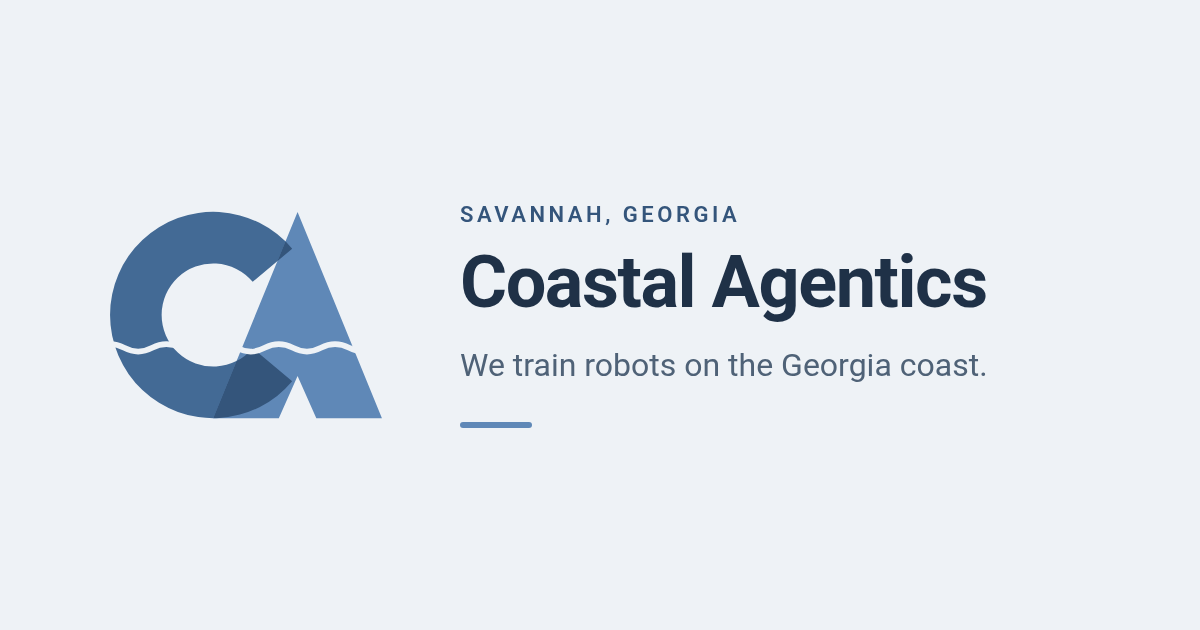
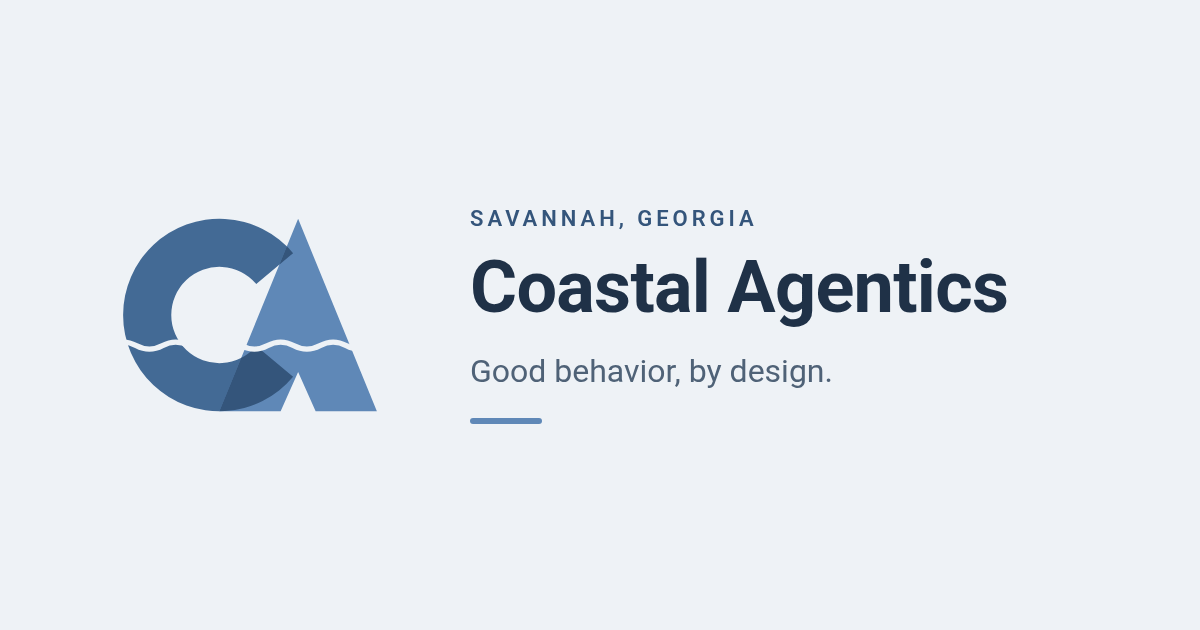
Site: generic share text for compliance review; drop robots invite (#7)
- meta, og and twitter descriptions: agentic software development and
  behavioral design for agents, replacing "We train robots on the
  Georgia coast..."
- og-image.png re-rendered with "Good behavior, by design." in place of
  the robots line; og:image:alt to match
- Work with us: remove the "planning for robots or intelligent systems"
  invite; keep the GitHub contact line
- CARD.md: 1.3.0 entry

Hero, headline, mission line and lede are unchanged.

On-Behalf-Of: Nye Warburton

diff --git a/index.html b/index.html
@@ -4,7 +4,7 @@
   <meta charset="utf-8">
   <meta name="viewport" content="width=device-width, initial-scale=1">
   <title>Coastal Agentics · Good behavior, by design</title>
-  <meta name="description" content="We train robots on the Georgia coast, alongside the people and industries that will work with them. Research partnerships and field work from Savannah, Georgia.">
+  <meta name="description" content="Coastal Agentics designs and tests how AI agents act before they meet the world: agentic software development and behavioral design for agents, from Savannah, Georgia.">
   <link rel="icon" href="favicon.svg" type="image/svg+xml">
   <meta name="theme-color" content="#EEF2F6">
   <link rel="canonical" href="https://coastal-agentics.github.io/">
@@ -12,15 +12,15 @@
   <meta property="og:type" content="website">
   <meta property="og:site_name" content="Coastal Agentics">
   <meta property="og:title" content="Coastal Agentics · Good behavior, by design">
-  <meta property="og:description" content="We train robots on the Georgia coast, alongside the people and industries that will work with them. Research partnerships and field work from Savannah, Georgia.">
+  <meta property="og:description" content="Coastal Agentics designs and tests how AI agents act before they meet the world: agentic software development and behavioral design for agents, from Savannah, Georgia.">
   <meta property="og:url" content="https://coastal-agentics.github.io/">
   <meta property="og:image" content="https://coastal-agentics.github.io/og-image.png">
   <meta property="og:image:width" content="1200">
   <meta property="og:image:height" content="630">
-  <meta property="og:image:alt" content="Coastal Agentics logo: a solid C and a triangular A. We train robots on the Georgia coast.">
+  <meta property="og:image:alt" content="Coastal Agentics logo: a solid C and a triangular A. Good behavior, by design.">
   <meta name="twitter:card" content="summary_large_image">
   <meta name="twitter:title" content="Coastal Agentics · Good behavior, by design">
-  <meta name="twitter:description" content="We train robots on the Georgia coast, alongside the people and industries that will work with them. Research partnerships and field work from Savannah, Georgia.">
+  <meta name="twitter:description" content="Coastal Agentics designs and tests how AI agents act before they meet the world: agentic software development and behavioral design for agents, from Savannah, Georgia.">
   <meta name="twitter:image" content="https://coastal-agentics.github.io/og-image.png">
   <link rel="stylesheet" href="style.css">
   <script src="flock.js" defer></script>
@@ -122,7 +122,7 @@
       <h2>Work with us</h2>
       <div class="prose">
         <p>We work alongside organizations, communities and industry on how intelligent systems fit the places they serve, through research partnerships and field work.</p>
-        <p>If your organization is planning for robots or intelligent systems on the Georgia coast, we would like to hear from you. You can find us on <a href="https://github.com/Coastal-Agentics">GitHub</a>.</p>
+        <p>You can find us on <a href="https://github.com/Coastal-Agentics">GitHub</a>.</p>
       </div>
     </section>
   </main>

diff --git a/CARD.md b/CARD.md
@@ -2,7 +2,7 @@
 
 **What it is:** The static company website for Coastal Agentics (Savannah, Georgia), to be served at https://coastal-agentics.github.io. It includes `index.html`, `style.css`, `404.html`, the logo mark (`logo.svg`), the wordmark (`logo-wordmark.svg`), `favicon.svg` and the social card `og-image.png`.
 
-**Version:** 1.2.0 (2026-09-30) simplifies the hero to "We train robots on the Georgia coast." with the line "Alongside the people and industries that will work with them.", keeps community as a light touch, and adds a "Work with us" section. 1.1.0 repositioned the copy toward culture and technology. 1.0.0 was the first public release.
+**Version:** 1.3.0 (2026-10-17) makes the share text generic for a compliance review: the meta, Open Graph and Twitter descriptions now describe agentic software development and behavioral design for agents, the social card (`og-image.png`) and its alt text carry "Good behavior, by design.", and the "Work with us" invite to organizations planning for robots is removed. Direction from Nye, 2026-10-17. 1.2.0 (2026-09-30) simplifies the hero to "We train robots on the Georgia coast." with the line "Alongside the people and industries that will work with them.", keeps community as a light touch, and adds a "Work with us" section. 1.1.0 repositioned the copy toward culture and technology. 1.0.0 was the first public release.
 
 **Made by:** Soundwave (CoS) with Grok Bot, for Nye Warburton.
 
